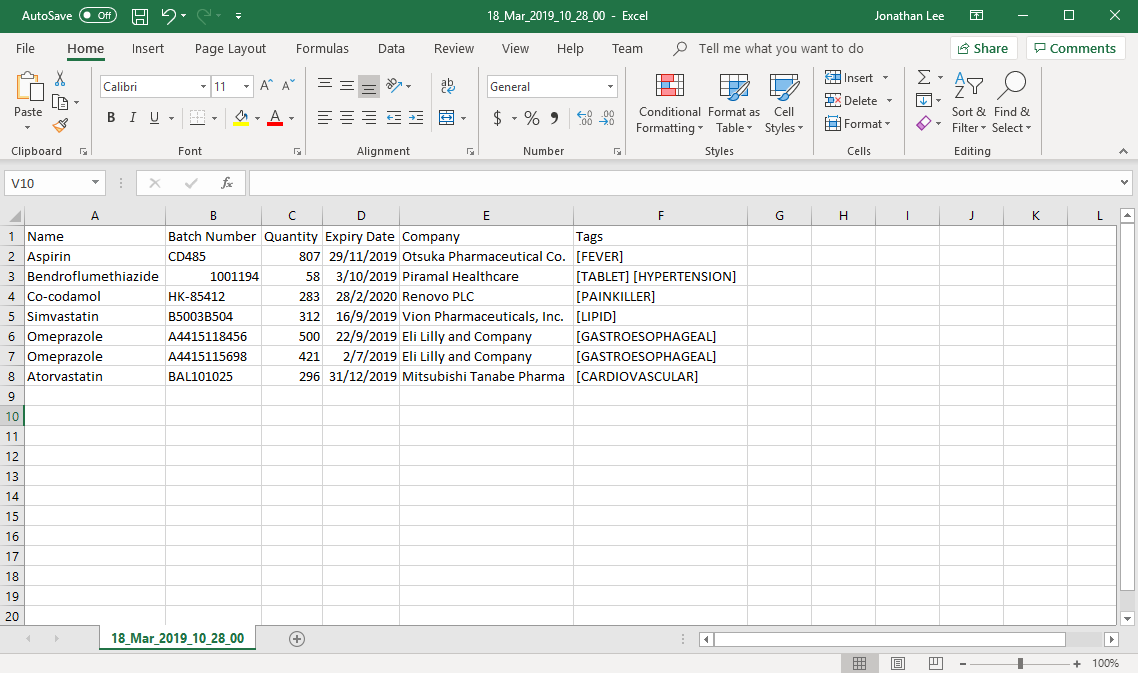
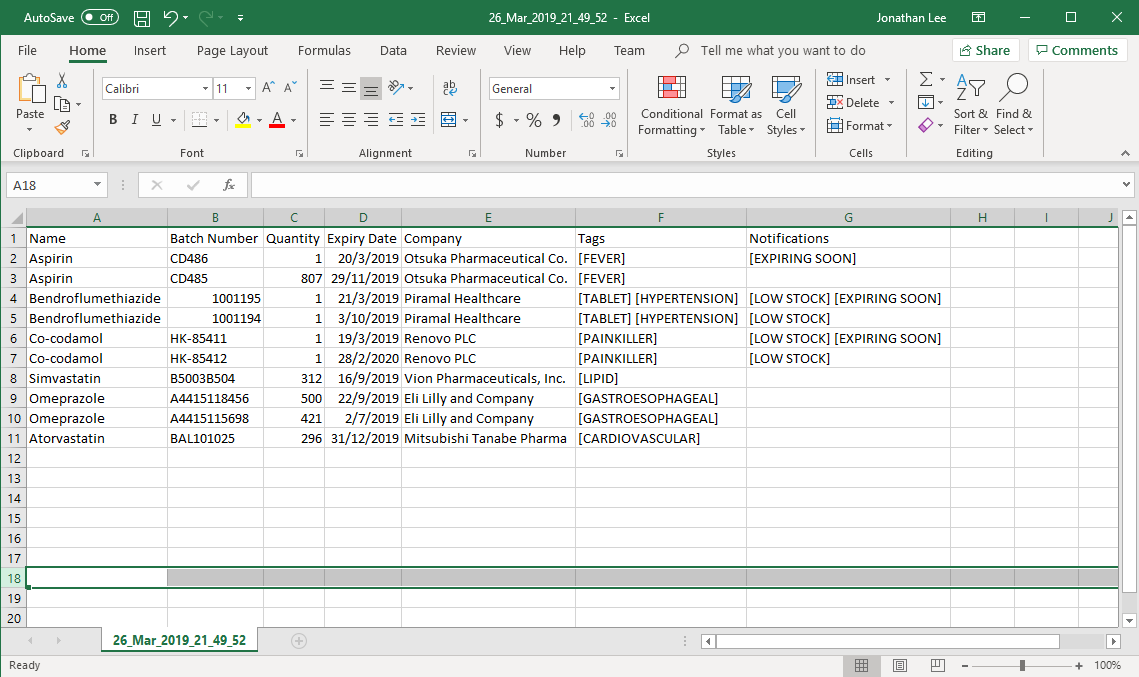
Rebuild pages at 8f0c7b5a7cbc1ef7538f230f2e221e83f33defee

diff --git a/HelpWindow.html b/HelpWindow.html
@@ -75,7 +75,7 @@
 <div class="olist arabic">
 <ol class="arabic">
 <li>
-<p>Ensure you have Java version <code>9</code> or later installed in your Computer.</p>
+<p>Ensure you have Java version <code>9</code> installed on your computer.</p>
 </li>
 <li>
 <p>Download the latest version of <code>meditabs.jar</code> <a href="https://github.com/CS2103-AY1819S2-T12-3/main/releases">here</a>.</p>
@@ -584,7 +584,7 @@ If a file with the specified file name already exists in the default <code>expor
 <i class="fa icon-note" title="Note"></i>
 </td>
 <td class="content">
-From the image above, you can observe that different batches of the same medicine have their own row in the CSV file. This provides more detailed information on the quantity and expiry date for each batch of the same medicine as different batches of the same medicine can have different expiry dates and quantity.
+From the image above, you can observe that different batches of the same medicine have their own row in the CSV file. This provides more detailed information on the quantity and expiry date for each batch of the same medicine as different batches of the same medicine can have different expiry dates and quantity. Furthermore, the CSV file also includes information such as which medicines are low in stock and which medicines are expiring soon for easier reference.
 </td>
 </tr>
 </table>
@@ -811,6 +811,42 @@ There is no need to save manually.</p>
 <h2 id="frequently-asked-questions-faq"><a class="link" href="#frequently-asked-questions-faq">4. Frequently Asked Questions (FAQ)</a></h2>
 <div class="sectionbody">
 <div class="paragraph">
+<p><strong>Q</strong>: Where can I find Java version <code>9</code>?<br>
+<strong>A</strong>: You can download Java version <code>9</code> <a href="https://www.oracle.com/technetwork/java/javase/downloads/java-archive-javase9-3934878.html">here</a>. We recommend installing Java SE Development Kit <code>9.0.4</code> on your computer.</p>
+</div>
+<div class="paragraph">
+<p><strong>Q</strong>: (Windows Only) I followed the instructions in <a href="#quick-start">Section 2, &#8220;Quick Start&#8221;</a> but the GUI did not appear?<br>
+<strong>A</strong>: This is a commonly known issue with JDK on Windows. You can learn more about the issue here: <a href="https://bugs.java.com/bugdatabase/view_bug.do?bug_id=4912211">Link</a></p>
+</div>
+<div class="paragraph">
+<p>We recommend following the steps below to solve this issue:</p>
+</div>
+<div class="olist arabic">
+<ol class="arabic">
+<li>
+<p>Ensure that you <strong>only</strong> have Java version <code>9</code> installed on your computer. Uninstall any other versions of Java which might be present on your computer.</p>
+</li>
+<li>
+<p>Download the latest version of <code>jarfix.exe</code> <a href="https://johann.loefflmann.net/en/software/jarfix/">here</a></p>
+</li>
+<li>
+<p>Double-click the file to allow the program to fix this issue.</p>
+</li>
+</ol>
+</div>
+<div class="admonitionblock note">
+<table>
+<tr>
+<td class="icon">
+<i class="fa icon-note" title="Note"></i>
+</td>
+<td class="content">
+If you encounter any problems running <code>jarfix.exe</code>, you can read the documentation available on the <a href="https://johann.loefflmann.net/en/software/jarfix/">website</a> for more detailed instructions on how to run the program on your computer.
+</td>
+</tr>
+</table>
+</div>
+<div class="paragraph">
 <p><strong>Q</strong>: How do I transfer my data to another Computer?<br>
 <strong>A</strong>: Install the app in the other computer and overwrite the empty data file it creates with the file that contains the data of your previous MediTabs folder.</p>
 </div>
@@ -932,4 +968,4 @@ The characters of the File Name cannot contain any spacing or symbols, including
 </table>
 </div>
 </div>
-</div></div><div id="footer"><div class="container"><div id="footer-text">Last updated 2019-03-26 14:35:08 UTC</div></div></div></body></html>
+</div></div><div id="footer"><div class="container"><div id="footer-text">Last updated 2019-03-26 16:05:12 UTC</div></div></div></body></html>

diff --git a/UserGuide.html b/UserGuide.html
@@ -75,7 +75,7 @@
 <div class="olist arabic">
 <ol class="arabic">
 <li>
-<p>Ensure you have Java version <code>9</code> or later installed in your Computer.</p>
+<p>Ensure you have Java version <code>9</code> installed on your computer.</p>
 </li>
 <li>
 <p>Download the latest version of <code>meditabs.jar</code> <a href="https://github.com/CS2103-AY1819S2-T12-3/main/releases">here</a>.</p>
@@ -584,7 +584,7 @@ If a file with the specified file name already exists in the default <code>expor
 <i class="fa icon-note" title="Note"></i>
 </td>
 <td class="content">
-From the image above, you can observe that different batches of the same medicine have their own row in the CSV file. This provides more detailed information on the quantity and expiry date for each batch of the same medicine as different batches of the same medicine can have different expiry dates and quantity.
+From the image above, you can observe that different batches of the same medicine have their own row in the CSV file. This provides more detailed information on the quantity and expiry date for each batch of the same medicine as different batches of the same medicine can have different expiry dates and quantity. Furthermore, the CSV file also includes information such as which medicines are low in stock and which medicines are expiring soon for easier reference.
 </td>
 </tr>
 </table>
@@ -811,6 +811,42 @@ There is no need to save manually.</p>
 <h2 id="frequently-asked-questions-faq"><a class="link" href="#frequently-asked-questions-faq">4. Frequently Asked Questions (FAQ)</a></h2>
 <div class="sectionbody">
 <div class="paragraph">
+<p><strong>Q</strong>: Where can I find Java version <code>9</code>?<br>
+<strong>A</strong>: You can download Java version <code>9</code> <a href="https://www.oracle.com/technetwork/java/javase/downloads/java-archive-javase9-3934878.html">here</a>. We recommend installing Java SE Development Kit <code>9.0.4</code> on your computer.</p>
+</div>
+<div class="paragraph">
+<p><strong>Q</strong>: (Windows Only) I followed the instructions in <a href="#quick-start">Section 2, &#8220;Quick Start&#8221;</a> but the GUI did not appear?<br>
+<strong>A</strong>: This is a commonly known issue with JDK on Windows. You can learn more about the issue here: <a href="https://bugs.java.com/bugdatabase/view_bug.do?bug_id=4912211">Link</a></p>
+</div>
+<div class="paragraph">
+<p>We recommend following the steps below to solve this issue:</p>
+</div>
+<div class="olist arabic">
+<ol class="arabic">
+<li>
+<p>Ensure that you <strong>only</strong> have Java version <code>9</code> installed on your computer. Uninstall any other versions of Java which might be present on your computer.</p>
+</li>
+<li>
+<p>Download the latest version of <code>jarfix.exe</code> <a href="https://johann.loefflmann.net/en/software/jarfix/">here</a></p>
+</li>
+<li>
+<p>Double-click the file to allow the program to fix this issue.</p>
+</li>
+</ol>
+</div>
+<div class="admonitionblock note">
+<table>
+<tr>
+<td class="icon">
+<i class="fa icon-note" title="Note"></i>
+</td>
+<td class="content">
+If you encounter any problems running <code>jarfix.exe</code>, you can read the documentation available on the <a href="https://johann.loefflmann.net/en/software/jarfix/">website</a> for more detailed instructions on how to run the program on your computer.
+</td>
+</tr>
+</table>
+</div>
+<div class="paragraph">
 <p><strong>Q</strong>: How do I transfer my data to another Computer?<br>
 <strong>A</strong>: Install the app in the other computer and overwrite the empty data file it creates with the file that contains the data of your previous MediTabs folder.</p>
 </div>
@@ -932,4 +968,4 @@ The characters of the File Name cannot contain any spacing or symbols, including
 </table>
 </div>
 </div>
-</div></div><div id="footer"><div class="container"><div id="footer-text">Last updated 2019-03-26 14:35:08 UTC</div></div></div></body></html>
+</div></div><div id="footer"><div class="container"><div id="footer-text">Last updated 2019-03-26 16:05:12 UTC</div></div></div></body></html>

diff --git a/team/johndoe.html b/team/johndoe.html
@@ -521,4 +521,4 @@ If the <code>currentStatePointer</code> is at index <code>inventoryStateList.siz
 <p><em>{Optionally, you may include other projects in your portfolio.}</em></p>
 </div>
 </div>
-</div></div><div id="footer"><div class="container"><div id="footer-text">Last updated 2019-03-26 14:35:08 UTC</div></div></div></body></html>
+</div></div><div id="footer"><div class="container"><div id="footer-text">Last updated 2019-03-26 16:05:12 UTC</div></div></div></body></html>

diff --git a/ContactUs.html b/ContactUs.html
@@ -12,4 +12,4 @@
 <p><strong>Email us</strong> : You can also reach us at <code>e0191399 [at] u.nus.edu</code></p>
 </li>
 </ul>
-</div></div><div id="footer"><div class="container"><div id="footer-text">Last updated 2019-03-26 14:35:08 UTC</div></div></div></body></html>
+</div></div><div id="footer"><div class="container"><div id="footer-text">Last updated 2019-03-26 16:05:12 UTC</div></div></div></body></html>

diff --git a/UsingGradle.html b/UsingGradle.html
@@ -255,4 +255,4 @@ See <code>build.gradle</code> &#8594; <code>allprojects</code> &#8594; <code>dep
 </ul>
 </div>
 </div>
-</div></div><div id="footer"><div class="container"><div id="footer-text">Last updated 2019-03-26 14:35:08 UTC</div></div></div></body></html>
+</div></div><div id="footer"><div class="container"><div id="footer-text">Last updated 2019-03-26 16:05:12 UTC</div></div></div></body></html>

diff --git a/UsingNetlify.html b/UsingNetlify.html
@@ -123,4 +123,4 @@ The publish directory is the directory in which the built HTML documentation res
 </ol>
 </div>
 </div>
-</div></div><div id="footer"><div class="container"><div id="footer-text">Last updated 2019-03-26 14:35:08 UTC</div></div></div></body></html>
+</div></div><div id="footer"><div class="container"><div id="footer-text">Last updated 2019-03-26 16:05:12 UTC</div></div></div></body></html>

diff --git a/UsingCoveralls.html b/UsingCoveralls.html
@@ -96,4 +96,4 @@ If you have not set up Travis CI, see <a href="UsingTravis.html">UsingTravis.ado
 </ol>
 </div>
 </div>
-</div></div><div id="footer"><div class="container"><div id="footer-text">Last updated 2019-03-26 14:35:08 UTC</div></div></div></body></html>
+</div></div><div id="footer"><div class="container"><div id="footer-text">Last updated 2019-03-26 16:05:12 UTC</div></div></div></body></html>

diff --git a/UsingTravis.html b/UsingTravis.html
@@ -277,4 +277,4 @@ Suggested change: Remove the codacy badge from <code>README</code>.</p>
 </div>
 </div>
 </div>
-</div></div><div id="footer"><div class="container"><div id="footer-text">Last updated 2019-03-26 14:35:08 UTC</div></div></div></body></html>
+</div></div><div id="footer"><div class="container"><div id="footer-text">Last updated 2019-03-26 16:05:12 UTC</div></div></div></body></html>

diff --git a/UsingCheckstyle.html b/UsingCheckstyle.html
@@ -91,4 +91,4 @@ Restart the IDE to complete the installation.</p>
 </ul>
 </div>
 </div>
-</div></div><div id="footer"><div class="container"><div id="footer-text">Last updated 2019-03-26 14:35:08 UTC</div></div></div></body></html>
+</div></div><div id="footer"><div class="container"><div id="footer-text">Last updated 2019-03-26 16:05:12 UTC</div></div></div></body></html>

diff --git a/DeveloperGuide.html b/DeveloperGuide.html
@@ -2328,4 +2328,4 @@ Expected: Similar to previous.</p>
 </div>
 </div>
 </div>
-</div></div><div id="footer"><div class="container"><div id="footer-text">Last updated 2019-03-26 14:35:08 UTC</div></div></div></body></html>
+</div></div><div id="footer"><div class="container"><div id="footer-text">Last updated 2019-03-26 16:05:12 UTC</div></div></div></body></html>

diff --git a/AboutUs.html b/AboutUs.html
@@ -78,4 +78,4 @@ Responsibilities: Logic</p>
 <hr>
 </div>
 </div>
-</div></div><div id="footer"><div class="container"><div id="footer-text">Last updated 2019-03-26 14:35:08 UTC</div></div></div></body></html>
+</div></div><div id="footer"><div class="container"><div id="footer-text">Last updated 2019-03-26 16:05:12 UTC</div></div></div></body></html>

diff --git a/UsingAppVeyor.html b/UsingAppVeyor.html
@@ -145,4 +145,4 @@ grant access:</p>
 </ol>
 </div>
 </div>
-</div></div><div id="footer"><div class="container"><div id="footer-text">Last updated 2019-03-26 14:35:08 UTC</div></div></div></body></html>
+</div></div><div id="footer"><div class="container"><div id="footer-text">Last updated 2019-03-26 16:05:12 UTC</div></div></div></body></html>
